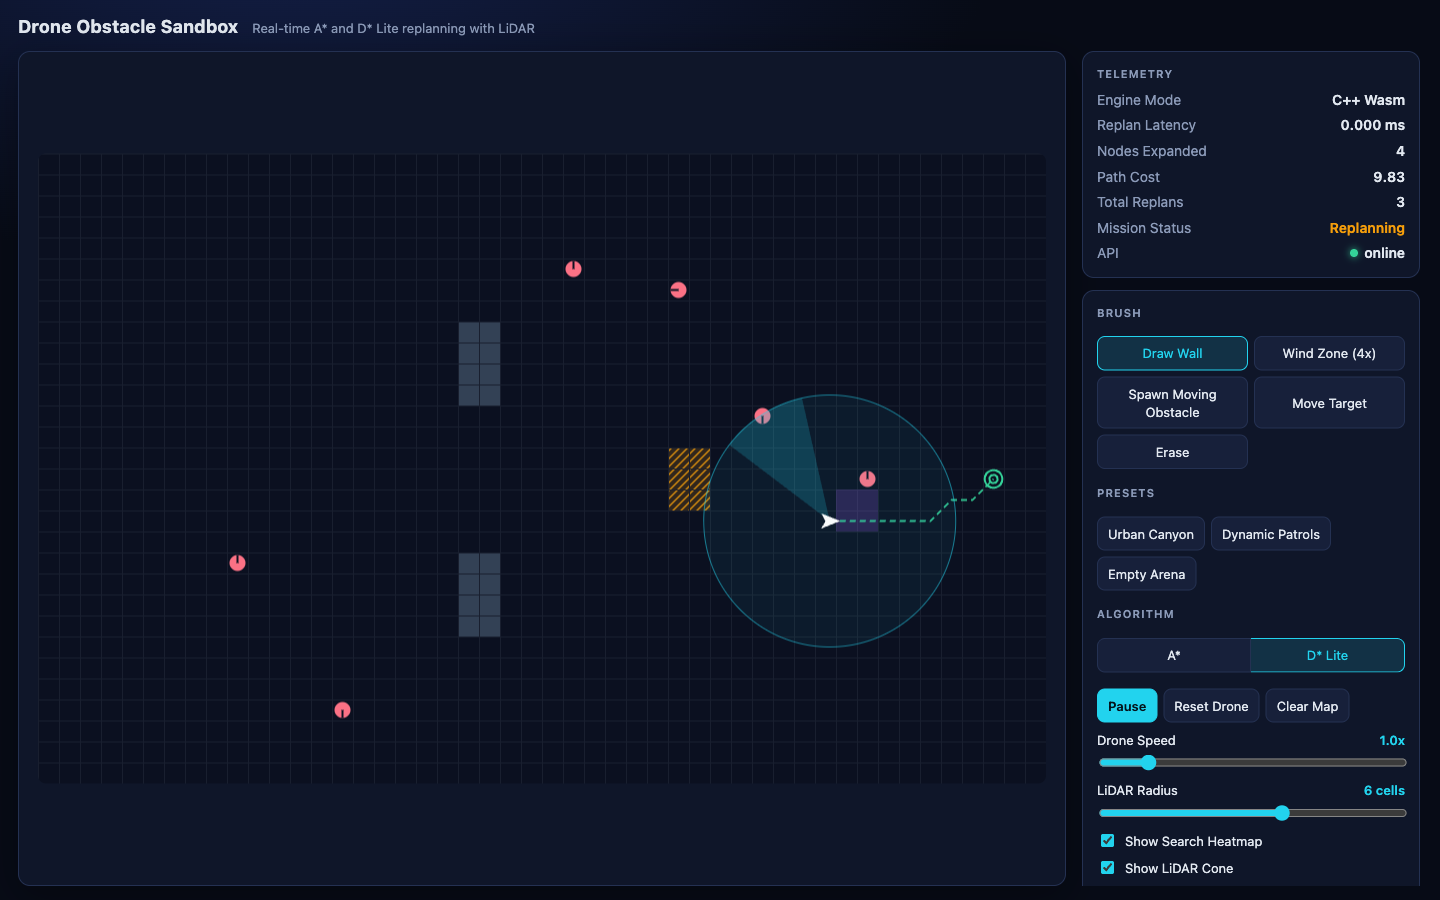
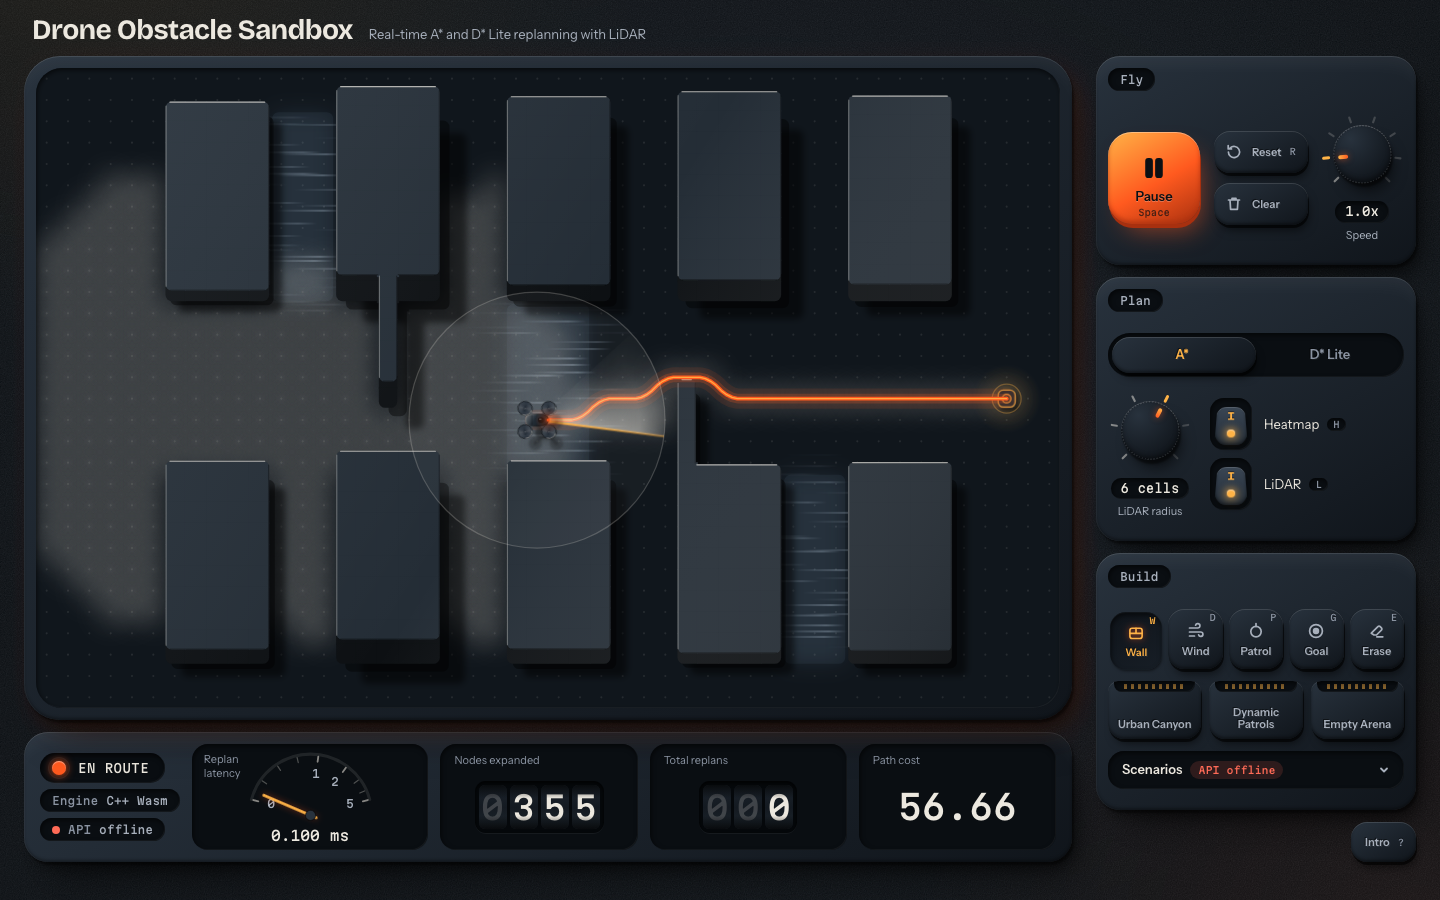
docs: refresh README screenshot; rename intro keycap label
The label no longer contains 'Play', so a loose accessible-name match for the Play button stays unique.

diff --git a/web/src/components/ControlPanel.tsx b/web/src/components/ControlPanel.tsx
@@ -205,7 +205,7 @@ export function ControlPanel(p: ControlPanelProps) {
 
       {p.onReplayIntro && (
         <div className="panel-foot">
-          <Keycap legend="Intro" label="Replay the intro" shortcut="?" onClick={p.onReplayIntro} />
+          <Keycap legend="Intro" label="Show the intro again" shortcut="?" onClick={p.onReplayIntro} />
         </div>
       )}
     </div>

diff --git a/docs/reports/ui-intro.md b/docs/reports/ui-intro.md
@@ -25,7 +25,7 @@ Every readout is real. Nothing in `cpp/`, `server/`, the `Planner` interface or 
 - `components/intro/useIntro.ts`: one rAF loop (cancelled on skip, finish and unmount; a long frame advances the script by at most 100 ms). React state changes only on caption change.
 - `IntroPill` (aria-live polite, no pointer events), `IntroShield` (transparent click-to-skip sheet, not focusable), `IntroCard` (reduced motion).
 - Render: `DrawOpts.quiet` makes the search layer swallow events while the city paints.
-- Input: `?` is in the keymap (`replayIntro`) with tests, and a real `Intro ?` keycap sits in the console footer (focus ring, aria-label "Replay the intro").
+- Input: `?` is in the keymap (`replayIntro`) with tests, and a real `Intro ?` keycap sits in the console footer (focus ring, aria-label "Show the intro again" (not "Replay...", which a loose name match for the Play button would hit)).
 
 ## Skip and states
 
